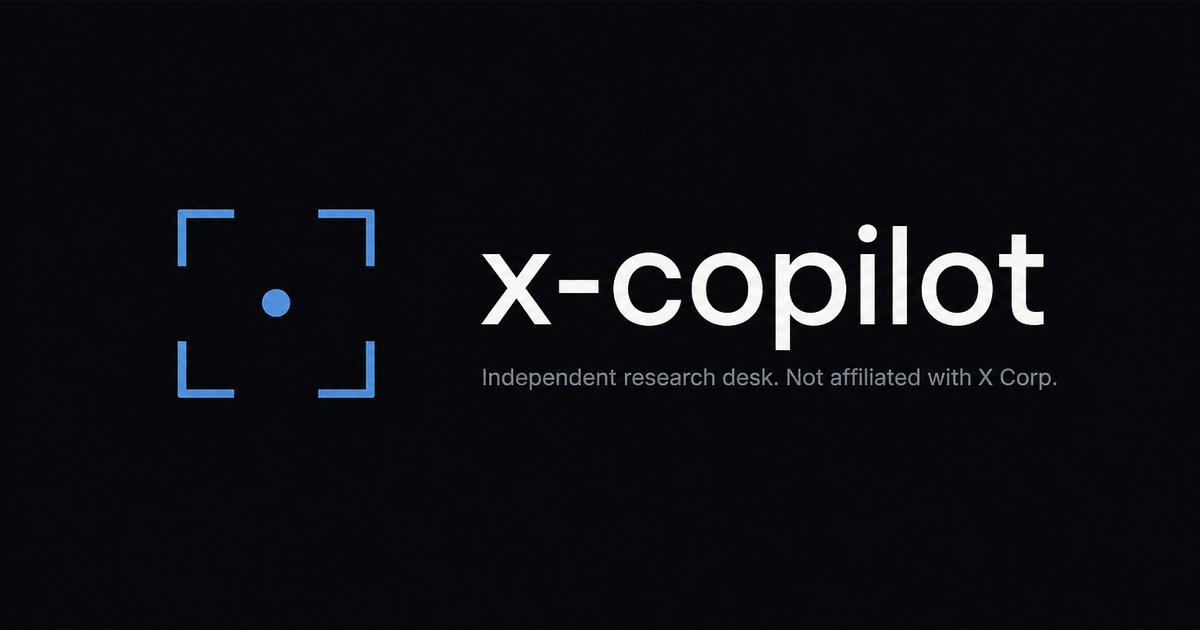
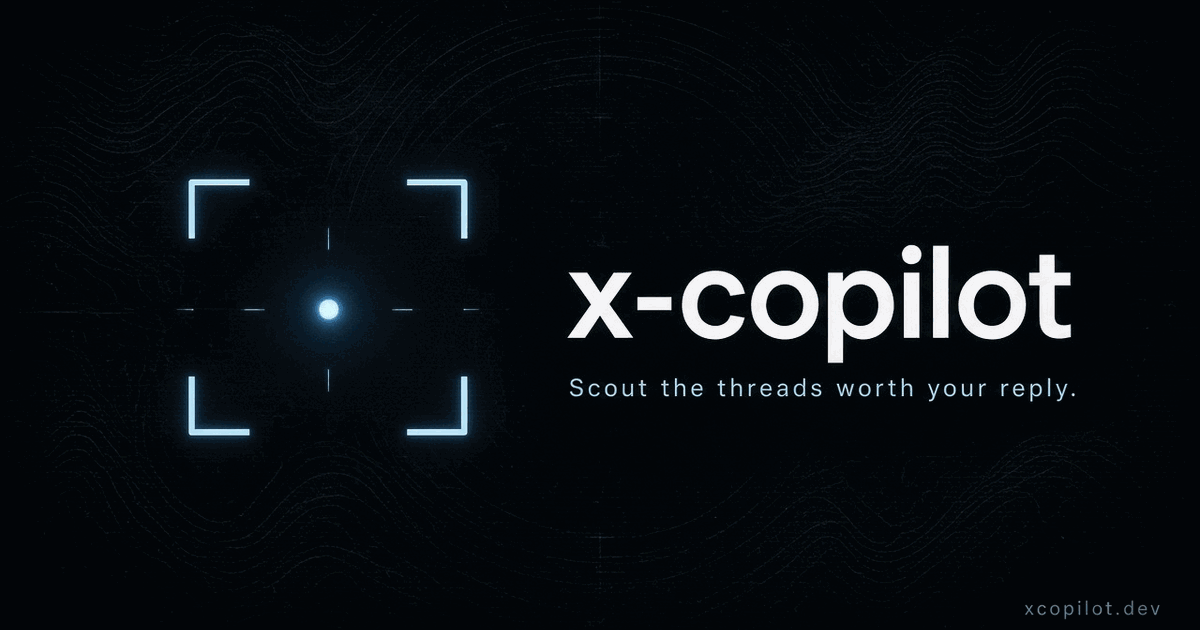
Replace the official OG image with the scout reticle.
Social shares still pointed at the original mark; this ships the chosen 1200x630 art and locks the size in the SEO tests.

diff --git a/src/lib/seo.test.ts b/src/lib/seo.test.ts
@@ -517,6 +517,11 @@ describe("public crawl files", () => {
     assert.doesNotMatch(robots, /Disallow: \/terms/);
   });
 
+  it("keeps the site OG image at the official size", () => {
+    const size = pngSize(join(publicDir, "og.png"));
+    assert.deepEqual(size, { width: OG_IMAGE_WIDTH, height: OG_IMAGE_HEIGHT });
+  });
+
   it("keeps the changelog featured image at the OG size", () => {
     const size = pngSize(join(publicDir, "og-changelog.png"));
     assert.deepEqual(size, { width: OG_IMAGE_WIDTH, height: OG_IMAGE_HEIGHT });
